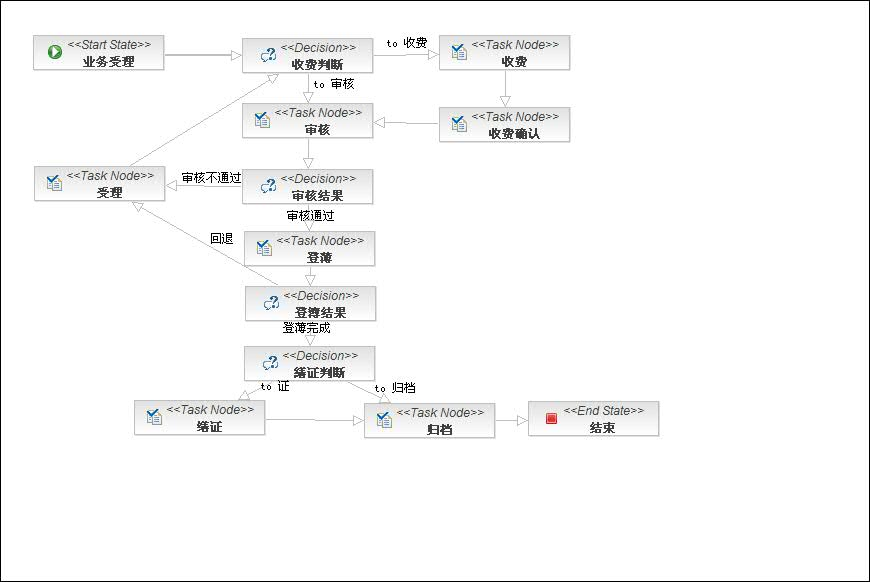
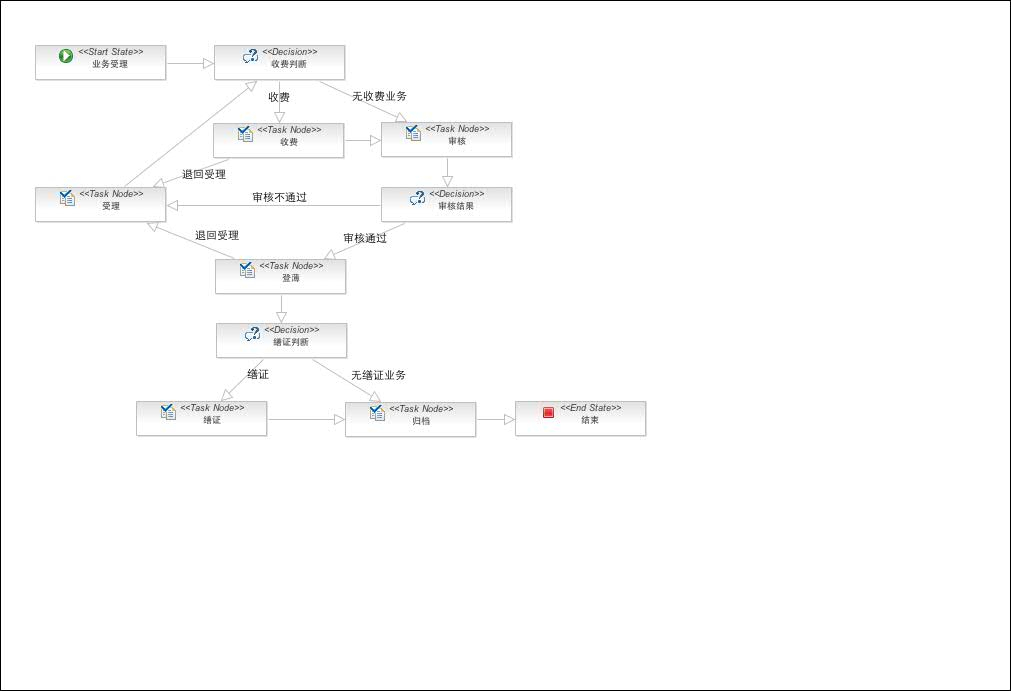
subscription interfaces change

Changed region(s): [[0.031, 0.0619, 0.7759, 0.7732], [0.0, 0.0, 1.0, 1.0], [0.4655, 0.0619, 0.6828, 0.1237]]

diff --git a/src/main/java/com/dgsoft/house/owner/business/OwnerTaskHandle.java b/src/main/java/com/dgsoft/house/owner/business/OwnerTaskHandle.java
@@ -9,7 +9,14 @@ import com.dgsoft.house.owner.model.TaskOper;
 import org.jboss.seam.ScopeType;
 import org.jboss.seam.annotations.*;
 import org.jboss.seam.annotations.bpm.EndTask;
+import org.jboss.seam.bpm.BusinessProcess;
+import org.jboss.seam.bpm.ManagedJbpmContext;
+import org.jbpm.graph.def.ProcessDefinition;
 import org.jbpm.taskmgmt.exe.TaskInstance;
+
+import java.util.ArrayList;
+import java.util.Collections;
+import java.util.List;
 
 /**
  * Created by cooper on 9/4/14.
@@ -25,6 +32,9 @@ public class OwnerTaskHandle {
 
     @In
     private BusinessDefineHome businessDefineHome;
+
+    @In
+    private BusinessProcess businessProcess;
 
     @In(required = false,scope = ScopeType.BUSINESS_PROCESS)
     @Out(required = false,scope = ScopeType.BUSINESS_PROCESS)
@@ -51,14 +61,27 @@ public class OwnerTaskHandle {
         this.transitionComments = transitionComments;
     }
 
+    public String transitionName;
+
+    public String getTransitionName() {
+        return transitionName;
+    }
+
+    public void setTransitionName(String transitionName) {
+        this.transitionName = transitionName;
+    }
+
     @Transactional
-    @EndTask
+    @End
     public String back(){
         transitionType = TaskOper.OperType.BACK.name();
+
+
         ownerBusinessHome.getInstance().getTaskOpers().add(new TaskOper(taskInstance.getId(),
                 taskDescription.isCheckTask() ? TaskOper.OperType.CHECK_BACK : TaskOper.OperType.BACK,ownerBusinessHome.getInstance(),
                 authInfo.getLoginEmployee().getId(), authInfo.getLoginEmployee().getPersonName(),
                 taskInstance.getName(),transitionComments));
+        businessProcess.endTask(transitionName);
         return "taskCompleted";
     }
 
@@ -92,12 +115,12 @@ public class OwnerTaskHandle {
         }
     }
 
-    @In(required = false)
+    @In(create = true)
     private OwnerBusinessFile ownerBusinessFile;
 
     public boolean isNeedFilePass(){
         if (businessDefineHome.isHaveNeedFile()){
-            return (ownerBusinessFile != null) && ownerBusinessFile.isPass();
+            return ownerBusinessFile.isPass();
         }
         return true;
     }
@@ -114,7 +137,20 @@ public class OwnerTaskHandle {
         throw new IllegalArgumentException("completeFail");
     }
 
+    private List<String> backTransitions;
 
+    public List<String> getBackTransitions(){
+        if (backTransitions == null){
+            backTransitions = new ArrayList<String>(taskInstance.getProcessInstance().getProcessDefinition().getNode(taskInstance.getName()).getLeavingTransitionsMap().keySet());
+            backTransitions.remove(null);
+            Collections.sort(backTransitions);
+        }
+        return backTransitions;
+    }
+
+    public boolean isCanBack(){
+        return !getBackTransitions().isEmpty();
+    }
 
 
 }

diff --git a/src/main/java/com/dgsoft/house/owner/business/HouseBusinessStart.java b/src/main/java/com/dgsoft/house/owner/business/HouseBusinessStart.java
@@ -114,7 +114,10 @@ public class HouseBusinessStart {
                 authInfo.getLoginEmployee().getPersonName()));
         ownerBusinessHome.getInstance().setId(businessDefineHome.getInstance().getId() + "-" + OwnerNumberBuilder.instance().useDayNumber("businessId"));
         Logging.getLog(getClass()).debug("businessID:" + ownerBusinessHome.getInstance().getId());
-        ownerBusinessHome.getInstance().getTaskOpers().add(new TaskOper(OwnerNumberBuilder.instance().useNumber("createBusinessId") * -1 ,ownerBusinessHome.getInstance(), authInfo.getLoginEmployee().getId(), authInfo.getLoginEmployee().getPersonName()));
+        ownerBusinessHome.getInstance().getTaskOpers().add(
+                new TaskOper(ownerBusinessHome.getInstance(), TaskOper.OperType.CREATE,
+                        RunParam.instance().getStringParamValue("CreateBizTaskName"),
+                        authInfo.getLoginEmployee().getId(), authInfo.getLoginEmployee().getPersonName()));
 
     }
 
@@ -125,7 +128,9 @@ public class HouseBusinessStart {
             throw new IllegalArgumentException("config exception not hove house");
         }
         for (HouseBusiness houseBusiness: selectedBusiness.getHouseBusinesses()){
-            ownerBusinessHome.getInstance().getHouseBusinesses().add(new HouseBusiness(ownerBusinessHome.getInstance(), ownerBusinessHome.getEntityManager().find(HouseRecord.class,houseBusiness.getHouseCode()).getBusinessHouse()));
+            ownerBusinessHome.getInstance().getHouseBusinesses().add(
+                    new HouseBusiness(ownerBusinessHome.getInstance(),
+                            ownerBusinessHome.getEntityManager().find(HouseRecord.class,houseBusiness.getHouseCode()).getBusinessHouse()));
         }
 
         return dataSelected();

diff --git a/src/main/java/com/dgsoft/house/owner/model/TaskOper.java b/src/main/java/com/dgsoft/house/owner/model/TaskOper.java
@@ -38,14 +38,13 @@ public class TaskOper implements java.io.Serializable {
     }
 
 
-    public TaskOper(Long taskId, OwnerBusiness ownerBusiness, String empCode, String empName) {
-        this.taskId = taskId;
+    public TaskOper(OwnerBusiness ownerBusiness,OperType operType, String operName, String empCode, String empName) {
         this.ownerBusiness = ownerBusiness;
         this.operTime = new Date();
         this.empCode = empCode;
         this.empName = empName;
-        this.taskName = "create";
-        this.operType = OperType.CREATE;
+        this.taskName = operName;
+        this.operType = operType;
     }
 
 
